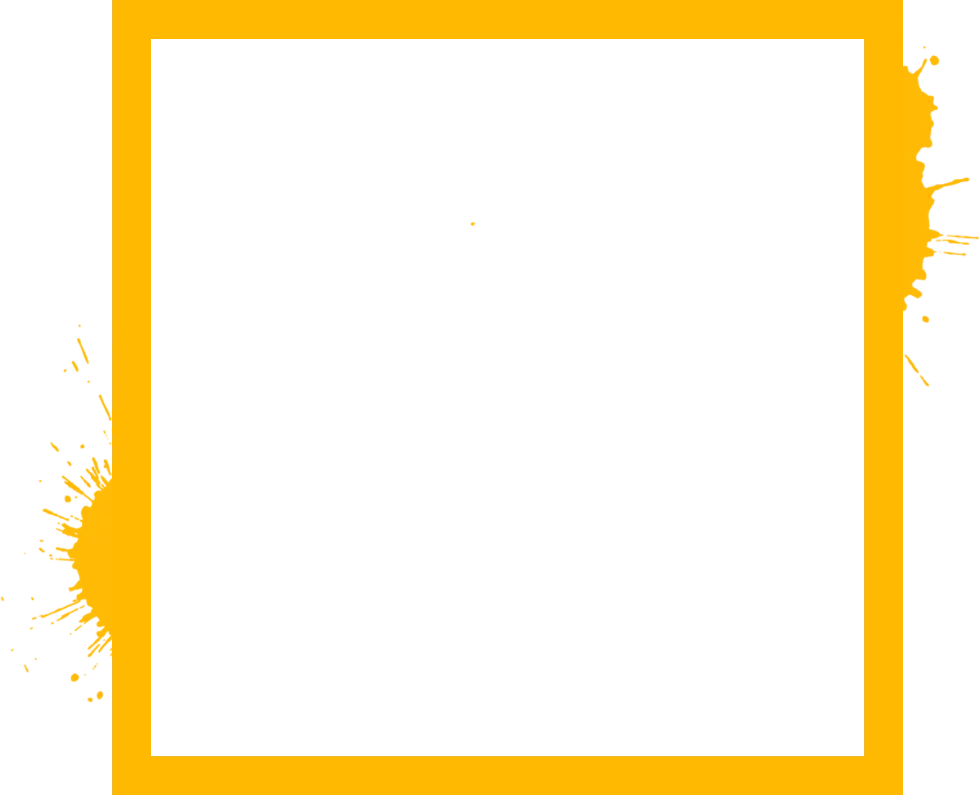
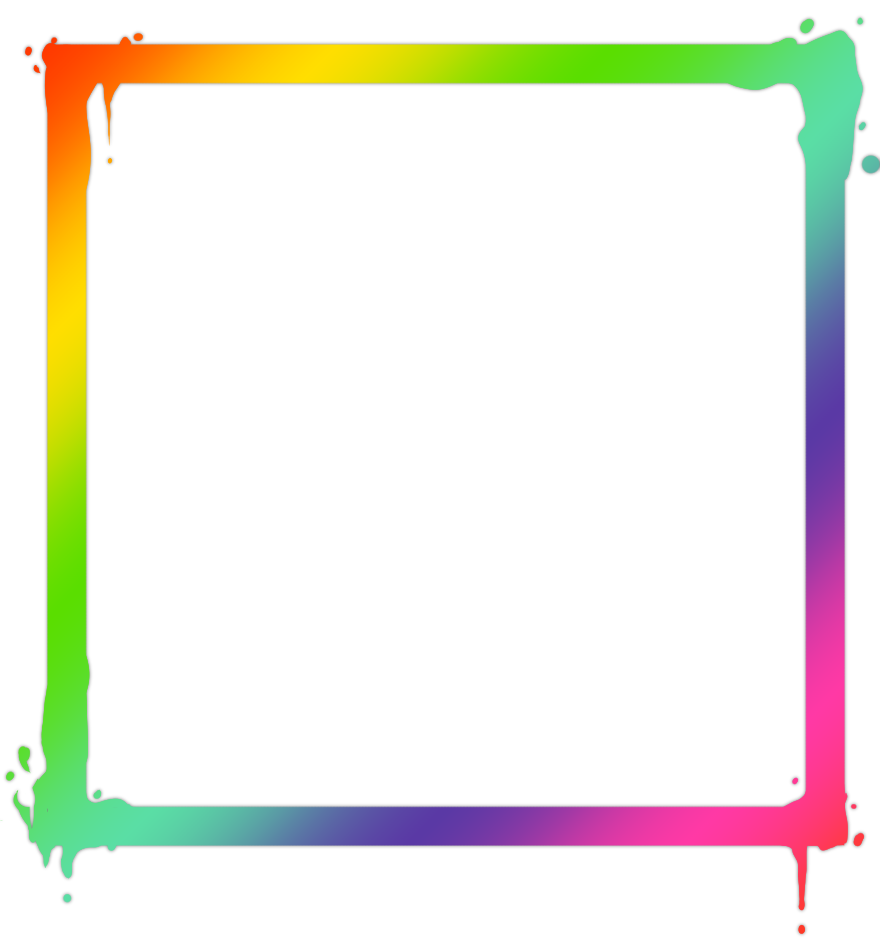
Hero-border updated to a Rainbow version

diff --git a/frontend-next-migration/src/widgets/SectionHero2/ui/SectionHero2.module.scss b/frontend-next-migration/src/widgets/SectionHero2/ui/SectionHero2.module.scss
@@ -1,10 +1,11 @@
 .Border {
-  width: 32%;
+  width: 25%;
   display: flex;
   align-items: center;
   justify-content: center;
   transition: background-image 0.3s;
   position: relative;
+  margin: 3.5%;
 }
 
 
@@ -17,8 +18,8 @@
   // left: 0;
   // top: 0;
   // bottom: 0;
-  width: 100%;
-  height: 100%;
+  width: fit-content;
+  height: fit-content;
   display: flex;
   flex-direction: column;
   align-items: center;
@@ -34,10 +35,10 @@
   // height: 70%;
   width: 350px;
   height: 350px;
-  margin-left: 70px;
-  margin-top: 50px;
-  margin-right: 50px;
-  margin-bottom: 50px;
+  margin-left: 30px;
+  margin-top: 60px;
+  margin-right: 30px;
+  margin-bottom: 80px;
 
   background-color: var(--transparent-bg-orange);
   cursor: pointer;
@@ -52,7 +53,8 @@
 
 @media (min-width: 1401px) and (max-width: 1600px) {
   .Border {
-    width: 50%;
+    width: 35%;
+    margin: 5%;
   }
   .HeroDiv {
     width: 400px;
@@ -62,7 +64,8 @@
 
 @media (min-width: 1201px) and (max-width: 1400px) {
   .Border {
-    width: 50%;
+    width: 35%;
+    margin: 5%;
   }
   .HeroDiv {
     width: 350px;
@@ -72,7 +75,8 @@
 
 @media (min-width: 1001px) and (max-width: 1200px) {
   .Border {
-    width: 50%;
+    width: 35%;
+    margin: 5%;
   }
   .HeroDiv {
     width: 300px;
@@ -82,25 +86,17 @@
 
 @media (min-width: 801px) and (max-width: 1000px) {
   .Border {
-    width: 50%;
+    width: 35%;
+    margin: 5%;
   }
   .HeroDiv {
     width: 250px;
     height: 250px;
   }
 }
-@media (min-width: 601px) and (max-width: 800px) {
+@media  (max-width: 800px) {
   .Border {
-    width: 50%;
-  }
-  .HeroDiv {
-    width: 200px;
-    height: 200px;
-  }
-}
-@media (min-width: 401px) and (max-width: 600px) {
-  .Border {
-    width: 90%;
+    width: 60%;
   }
   .HeroDiv {
     width: 300px;
